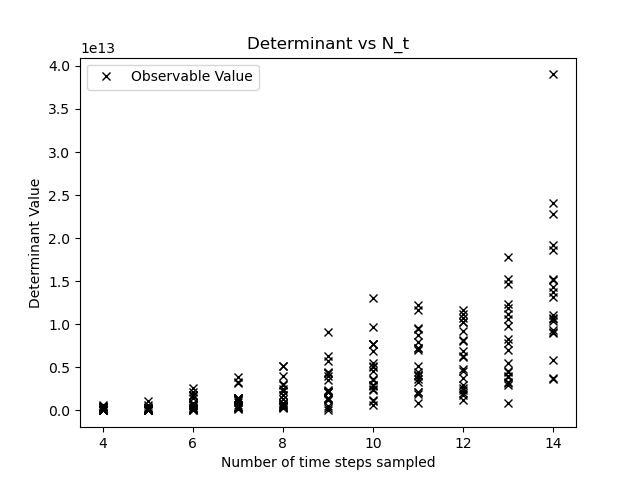
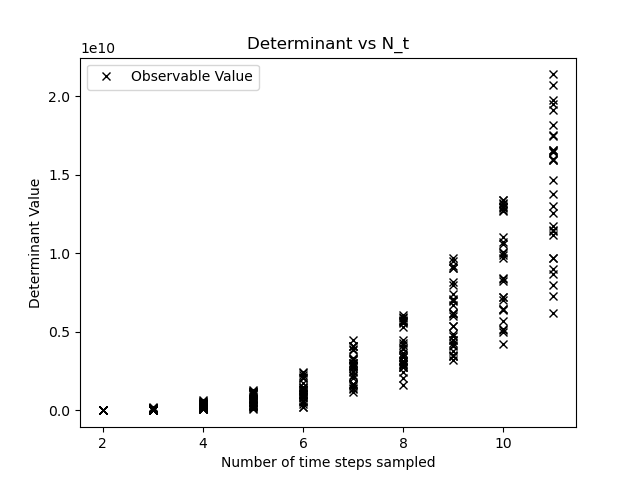
the code can now optimize the selected times by random sampling.

diff --git a/growth_model.py b/growth_model.py
@@ -151,7 +151,7 @@ if __name__ == "__main__":
     n0 = 20
 
     # Define sample space
-    sample_temps = np.arange(20, 30, 0.1)
+    sample_temps = np.arange(20, 30, 1)
 
     # # Additional Variables (like Temperature) over which we want to iterate
     variables = [
@@ -159,8 +159,8 @@ if __name__ == "__main__":
     ]
 
     # How many points of time should be sampled at maximum? (Starting at 1)
-    N_t_min = 4
-    N_t_max = 15
+    N_t_min = 2
+    N_t_max = 12
     # How many times should the random sampling take a sample of (eg. 3) time points
     N_t_mult = 20
     # Final result should look like this:
@@ -170,11 +170,54 @@ if __name__ == "__main__":
     #   ...
     # ]
     many_sample_times = [np.sort(np.random.uniform(low=t0, high=tmax, size=n)) for n in range(N_t_min, N_t_max) for j in range(N_t_mult)]
-
-    # Use multithreading to solve the equations and obtain results
-    fischer_results = []
-    with Pool(8) as p:
-        fischer_results = p.starmap(calculate_Fischer_determinant, zip(many_sample_times, iter.repeat(params), iter.repeat(variables), iter.repeat(ODE_RHS)))
     
+    # How many optimization runs are we doing?
+    N_opt = 10
+    # How many best results are we picking
+    N_best = 5
+    # How many new results are we generating from the chosen ones
+    N_new = 5
+    # How much do we decrease the interval?
+    diff_mod = 0.9
+
+    # Do multiple runs to extract the best result and optimize it
+    for n in range(N_opt):
+        # Use multithreading to solve the equations and obtain results
+        fischer_results = []
+        with Pool(14) as p:
+            fischer_results = p.starmap(calculate_Fischer_determinant, zip(many_sample_times, iter.repeat(params), iter.repeat(variables), iter.repeat(ODE_RHS)))
+        
+        # Delete old entries
+        many_sample_times = []
+        # We want to filter the list of results for each number of time-steps that we are solving
+        for nt in range(N_t_min, N_t_max):
+            for det, times, param, var in sorted(filter(lambda x: len(x[1]) == nt, fischer_results), key=lambda x: x[0], reverse=True)[0:N_best]:
+                # We create new time values by perturbing old ones
+                times_new = np.zeros((len(times), N_new))
+                
+                # We calculate the lower and upper bound of the next iteration
+                for i, t in enumerate(times):
+                    # In this case we are in between
+                    if i>0 and i<len(times)-1:
+                        t_low=t - (t-times[i-1])*diff_mod**(n+1)
+                        t_high=t + (times[i+1]-t)*diff_mod**(n+1)
+                    # We hit the bottom --> calculate with t0
+                    elif i==0:
+                        t_low=t - (t-t0)*diff_mod**(n+1)
+                        t_high=t + (times[i+1]-t)*diff_mod**(n+1)
+                    # We hit the top --> calculate with tmax
+                    elif i==len(times)-1:
+                        t_low=t - (t-times[i-1])*diff_mod**(n+1)
+                        t_high=t - (tmax-t)*diff_mod**(n+1)
+                    # Now we sample the first time-step of the next series N_new times
+                    # If we repeat this procedure, every time-step will be sampled
+                    times_new[i,:] = np.random.uniform(low=t_low, high=t_high, size=N_new)
+
+                # Now we have to slice the correct times from the newly created array
+                many_sample_times += [np.sort(times_new[:,k]) for k in range(N_new)]
+                # Also add the original one in case that this is better
+                many_sample_times += [times]
+        print("Optimization run {} done".format(n))
+
     make_nice_plots(fischer_results)
     save_to_files(fischer_results)
